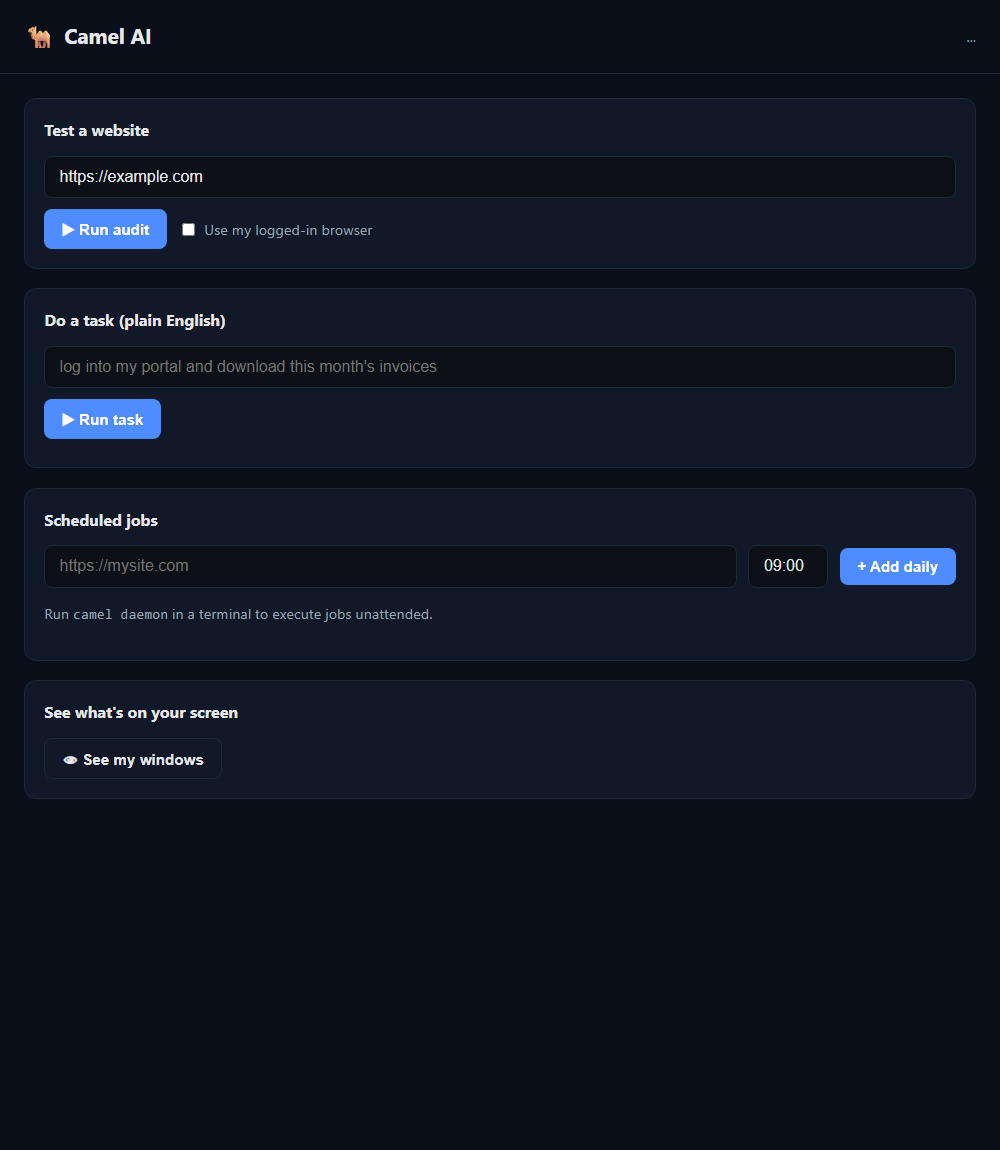
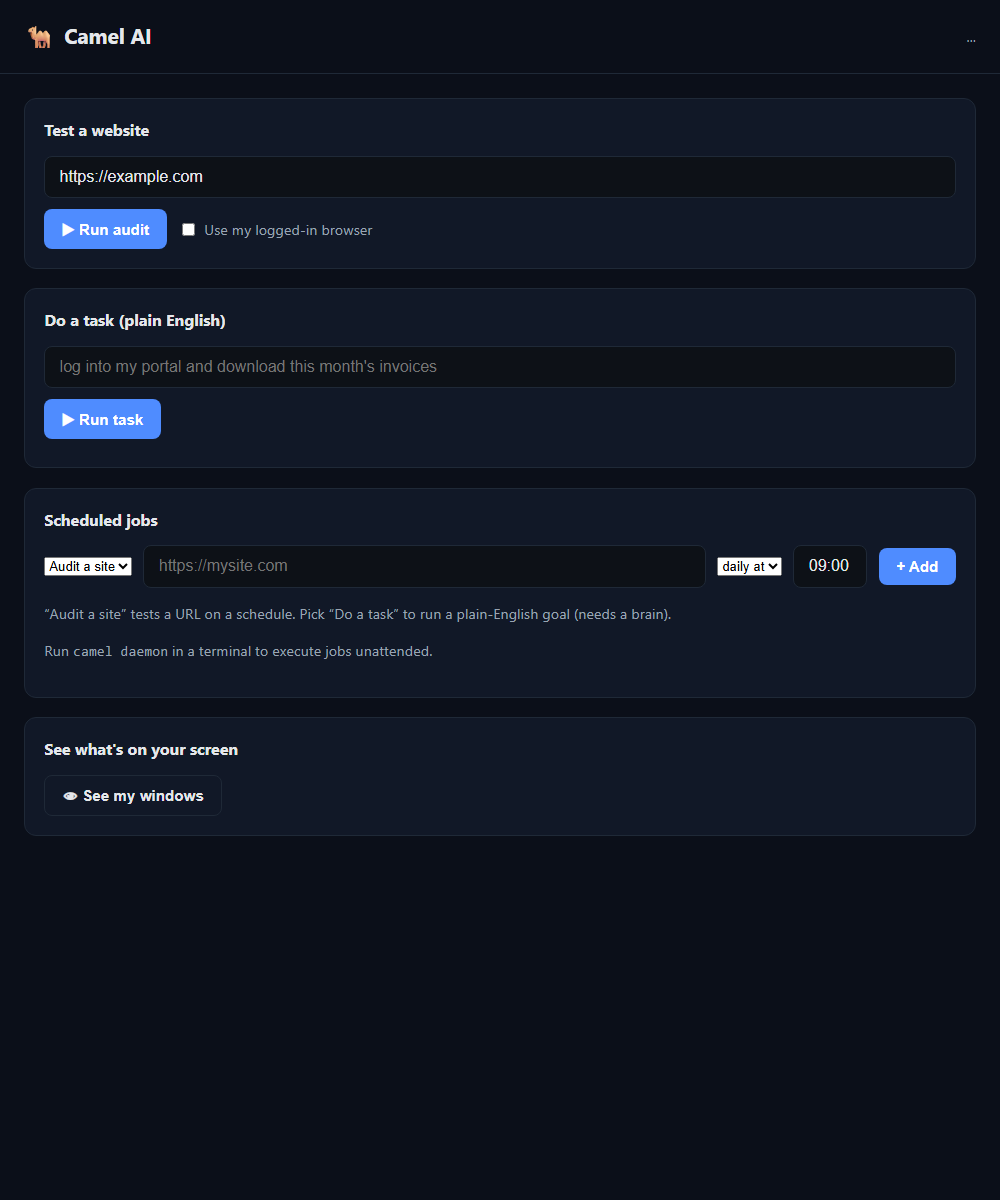
Dashboard jobs: choose what the job does + how often (#25)
The Scheduled jobs box assumed "audit a URL" with no way to say otherwise. Now:
a kind selector (Audit a site / Do a task), a frequency selector (daily at HH:MM
/ hourly), an adaptive placeholder, and a clearer job list. Fixes "no way to tell
what job to do".

Claude-Session: https://claude.ai/code/session_01SRrF8evG9sqdZcEVRkf1QW

diff --git a/src/camel/dashboard.py b/src/camel/dashboard.py
@@ -171,10 +171,19 @@ _PAGE = r"""<!doctype html><html lang="en"><head><meta charset="utf-8">
  <div class="card">
   <h2>Scheduled jobs</h2>
   <div class="row">
-   <input type="text" id="jtask" placeholder="https://mysite.com" style="flex:2;min-width:180px">
-   <input type="text" id="jat" placeholder="09:00" value="09:00" style="width:80px">
-   <button id="jadd">+ Add daily</button>
+   <select id="jkind" title="what the job does">
+    <option value="audit">Audit a site</option>
+    <option value="goal">Do a task</option>
+   </select>
+   <input type="text" id="jtask" placeholder="https://mysite.com" style="flex:2;min-width:200px">
+   <select id="jevery" title="how often">
+    <option value="day">daily at</option>
+    <option value="hour">hourly</option>
+   </select>
+   <input type="text" id="jat" placeholder="09:00" value="09:00" style="width:74px">
+   <button id="jadd">+ Add</button>
   </div>
+  <p class="meta" id="jhint">“Audit a site” tests a URL on a schedule. Pick “Do a task” to run a plain-English goal (needs a brain).</p>
   <div id="joblist" style="margin-top:.7rem"></div>
   <p class="meta">Run <code>camel daemon</code> in a terminal to execute jobs unattended.</p>
  </div>
@@ -216,11 +225,17 @@ document.getElementById('dorun').onclick=async()=>{
 };
 async function loadJobs(){const r=await fetch('/api/jobs');const d=await r.json();const el=document.getElementById('joblist');el.innerHTML='';
  (d.jobs||[]).forEach(j=>{const row=document.createElement('div');row.className='win';
-  row.innerHTML=`• <b>${j.id}</b> ${j.kind} "${j.task}" @ ${j.at} <a href="#" data-id="${j.id}" style="margin-left:.5rem">remove</a>`;
+  const when=j.every==='hour'?'hourly':('daily '+j.at);
+  row.innerHTML=`• <b>${j.id}</b> ${j.kind}: "${j.task}" — ${when} <a href="#" data-id="${j.id}" style="margin-left:.5rem">remove</a>`;
   row.querySelector('a').onclick=async(e)=>{e.preventDefault();await fetch('/api/jobs',{method:'POST',headers:{'Content-Type':'application/json'},body:JSON.stringify({action:'remove',id:j.id})});loadJobs();};
   el.appendChild(row);});}
-document.getElementById('jadd').onclick=async()=>{const task=document.getElementById('jtask').value;const at=document.getElementById('jat').value||'09:00';
- if(!task)return; await fetch('/api/jobs',{method:'POST',headers:{'Content-Type':'application/json'},body:JSON.stringify({action:'add',task,kind:'audit',every:'day',at})});
+const jkind=document.getElementById('jkind'), jevery=document.getElementById('jevery');
+jkind.onchange=()=>{document.getElementById('jtask').placeholder = jkind.value==='goal'
+ ? 'e.g. log into my portal and email me any broken buttons' : 'https://mysite.com';};
+document.getElementById('jadd').onclick=async()=>{const task=document.getElementById('jtask').value;
+ const at=document.getElementById('jat').value||'09:00'; if(!task)return;
+ await fetch('/api/jobs',{method:'POST',headers:{'Content-Type':'application/json'},
+  body:JSON.stringify({action:'add',task,kind:jkind.value,every:jevery.value,at})});
  document.getElementById('jtask').value=''; loadJobs();};
 loadJobs();
 document.getElementById('seebtn').onclick=async()=>{